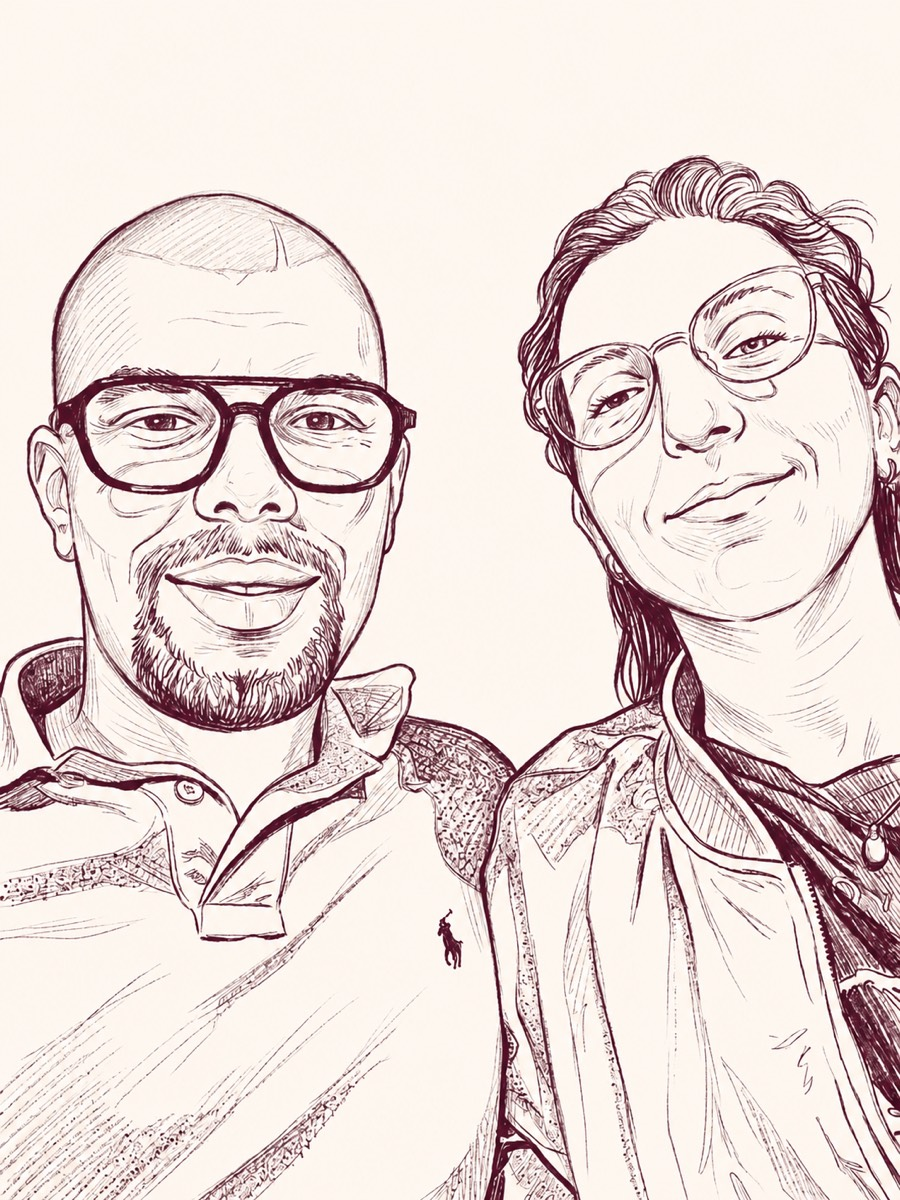
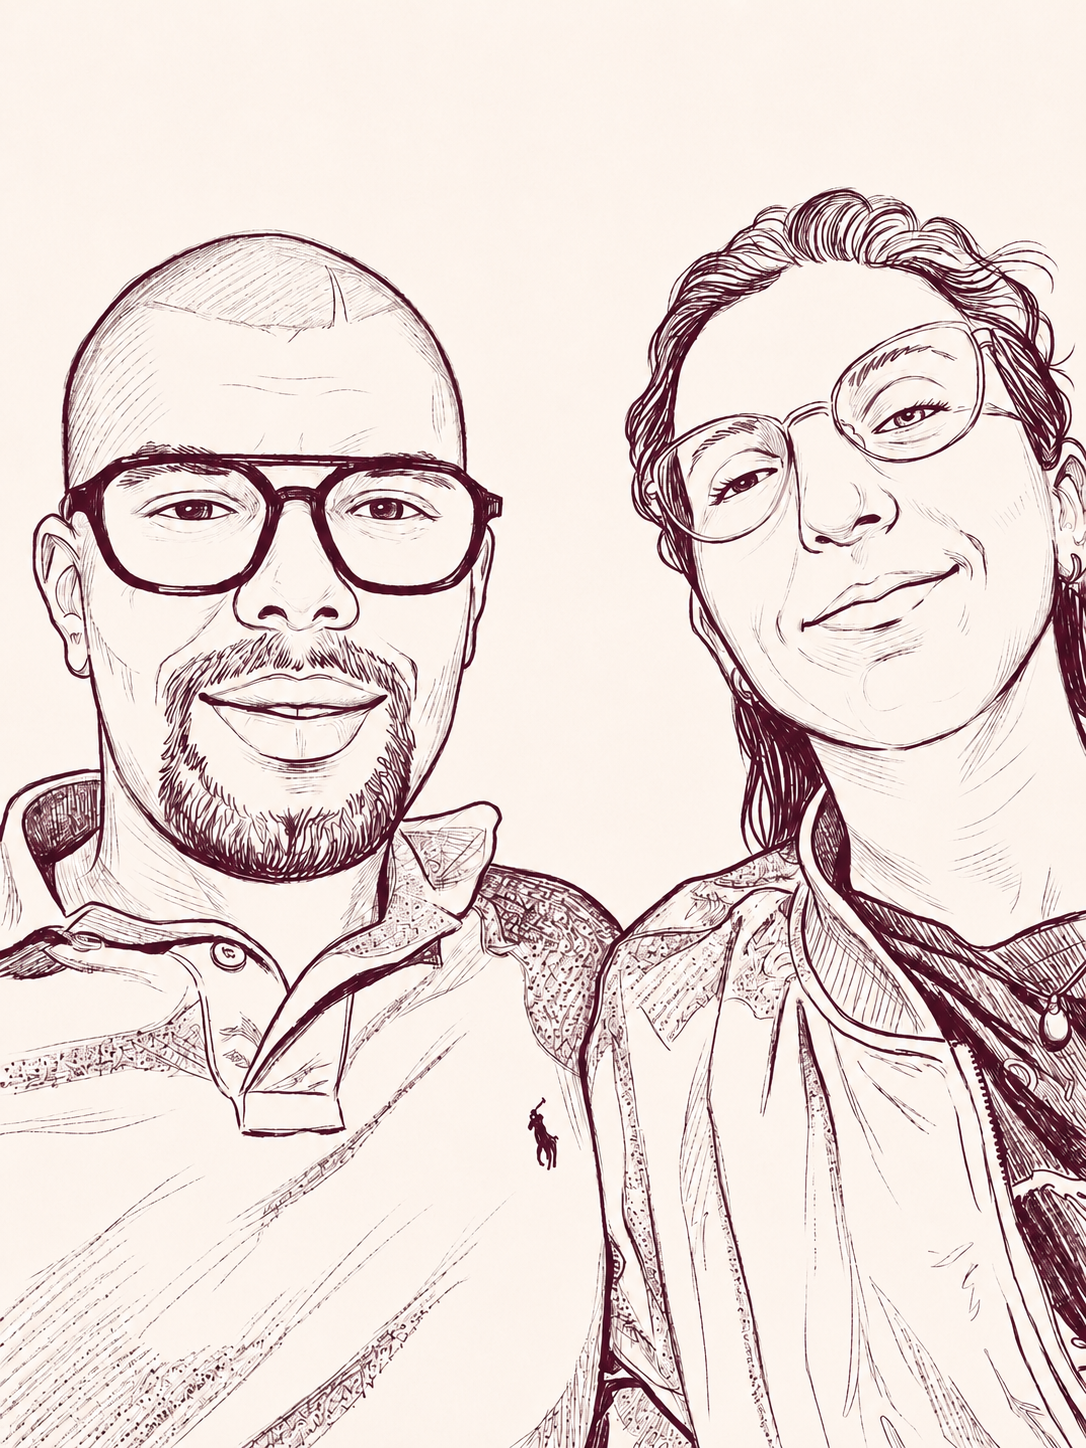
UX/UI : transitions de page, alignement titres, validation RSVP, header mobile
- Transitions de page natives (@user cross-document) avec repli sur le fondu manuel ; navigation fluide sans délai ni écran blanc
- Alignement des titres de hero (Programme/Lieu/Infos) à la même position : copy top-aligné, kicker et paddings harmonisés
- Validation RSVP : messages d'erreur uniquement à la soumission (plus au blur), tournures complètes (« Merci de renseigner votre prénom »)
- FAQ : groupes principaux en accordéon exclusif (name partagé)
- Header mobile : logo centré (flex + hamburger en absolu)
- Nouvelle illustration du couple

diff --git a/style.css b/style.css
@@ -152,7 +152,25 @@
    ========================= */
 html.page-loading{
   opacity:0;
-  /* bloque le rendu jusqu'à ce que JS déclenche le fade-in */
+  /* bloque le rendu jusqu'à ce que JS déclenche le fade-in (repli sans View Transitions) */
+}
+
+/* View Transitions natives (cross-document) : fondu enchaîné fluide entre les pages,
+   géré par le navigateur (sans délai ni écran blanc). Repli sur les navigateurs non
+   compatibles : navigation instantanée + fondu JS hérité (voir page-loading). */
+@view-transition{ navigation: auto; }
+
+::view-transition-old(root),
+::view-transition-new(root){
+  animation-duration:.45s;
+  animation-timing-function:cubic-bezier(.4, 0, .2, 1);
+}
+
+@media (prefers-reduced-motion: reduce){
+  ::view-transition-old(root),
+  ::view-transition-new(root){
+    animation:none;
+  }
 }
 
 /* =========================
@@ -1267,6 +1285,8 @@ main{
 }
 
 .programme-intro .pill{
+  display:block;
+  margin:0 0 12px;
   padding:0;
   border:0;
   border-radius:0;
@@ -2335,7 +2355,7 @@ main{
   display:grid;
   grid-template-columns:1fr 360px;
   gap:52px;
-  align-items:center;
+  align-items:start;
 }
 .infos-hero-h2{
   margin-bottom:20px;
@@ -2761,7 +2781,7 @@ main{
   display:grid;
   grid-template-columns:1fr 360px;
   gap:32px;
-  align-items:center;
+  align-items:start;
 }
 
 .lieu-hero-summary{
@@ -2792,7 +2812,7 @@ main{
 .lieu-hero-copy{
   display:flex;
   flex-direction:column;
-  padding:12px 0;
+  padding:0;
 }
 
 .lieu-hero-copy h2{
@@ -3820,18 +3840,24 @@ button{
   }
 
   .header-inner{
-    grid-template-columns:1fr auto;
-    justify-items:start;
+    display:flex;
+    justify-content:center;
     align-items:center;
+    position:relative;
     height:auto;
     padding:14px 20px;
-    row-gap:0;
   }
 
   .site-header .nav{ display:none; }
   .header-rsvp{ display:none; }
-  .nav-toggle{ display:flex; }
-  .site-header .brand{ font-size:1.4rem; }
+  .nav-toggle{
+    display:flex;
+    position:absolute;
+    right:20px;
+    top:50%;
+    transform:translateY(-50%);
+  }
+  .site-header .brand{ font-size:1.4rem; margin-right:0; }
   .footer-grid{
     grid-template-columns:repeat(2, minmax(0, 1fr));
     gap:24px 22px;

diff --git a/script.js b/script.js
@@ -659,7 +659,7 @@ function initRSVP() {
 
     if (field.validity.valueMissing) {
       if (field.name === 'email') return 'Merci de renseigner votre adresse e-mail.';
-      return `Merci de renseigner ${labelText.toLowerCase()}.`;
+      return `Merci de renseigner votre ${labelText.toLowerCase()}.`;
     }
 
     if (field.validity.typeMismatch && field.name === 'email') {
@@ -667,7 +667,7 @@ function initRSVP() {
     }
 
     if (field.validity.badInput) {
-      return `Merci de vérifier ${labelText.toLowerCase()}.`;
+      return `Merci de vérifier votre ${labelText.toLowerCase()}.`;
     }
 
     return '';
@@ -844,18 +844,15 @@ function initRSVP() {
     field.addEventListener('blur', () => {
       if (!field.name || field.type === 'hidden' || field.type === 'radio' || field.type === 'checkbox') return;
       field.setCustomValidity('');
-      if (!field.value.trim() && field.required) {
-        field.classList.add('is-error');
-        field.classList.remove('is-valid');
-        showInlineFieldMessage(field, getFieldValidationMessage(field));
-      } else if (!field.validity.valid) {
-        field.classList.add('is-error');
-        field.classList.remove('is-valid');
-        showInlineFieldMessage(field, getFieldValidationMessage(field));
-      } else if (field.value.trim()) {
+      // On ne signale aucune erreur au blur : les messages n'apparaissent qu'à la
+      // soumission d'un formulaire incomplet. On marque seulement en "valide" (vert)
+      // les champs correctement remplis.
+      if (field.value.trim() && field.validity.valid) {
         field.classList.add('is-valid');
         field.classList.remove('is-error');
         clearInlineFieldMessage(field);
+      } else {
+        field.classList.remove('is-valid');
       }
     });
 
@@ -974,6 +971,9 @@ function initMobileNav() {
 
 function initPageTransitions() {
   if (prefersReducedMotion) return;
+  // Navigateurs gérant les View Transitions cross-document (@view-transition) :
+  // on laisse la transition native opérer, sans fondu manuel ni délai de navigation.
+  if ('CSSViewTransitionRule' in window) return;
 
   document.addEventListener('click', e => {
     if (e.button !== 0 || e.ctrlKey || e.metaKey || e.shiftKey || e.altKey) return;

diff --git a/infos.html b/infos.html
@@ -15,7 +15,7 @@
 <link rel="preconnect" href="https://fonts.gstatic.com" crossorigin>
 <link href="https://fonts.googleapis.com/css2?family=Cormorant+Garamond:wght@400;500&family=Mulish:wght@300;400;600&family=Great+Vibes&display=swap" rel="stylesheet">
 <link rel="stylesheet" href="./style.css?v=20260510f">
-  <script>document.documentElement.classList.add("page-loading")</script>
+  <script>if(!('CSSViewTransitionRule' in window))document.documentElement.classList.add("page-loading")</script>
 </head><body class="page" data-page="infos">
 <a class="skip-link" href="#main-content">Aller au contenu</a>
 <div data-header-component data-header-source="./partials/header.html">
@@ -222,7 +222,7 @@
     <div class="faq-groups">
 
       <!-- 1 · Votre arrivée -->
-      <details class="faq-group" id="faq-arrivee">
+      <details class="faq-group" name="faq-group" id="faq-arrivee">
         <summary class="faq-group-title">Votre arrivée</summary>
 
         <details class="home-accordion-item faq-item" name="infos-faq">
@@ -251,7 +251,7 @@
       </details>
 
       <!-- 2 · Dormir sur place -->
-      <details class="faq-group" id="faq-logements">
+      <details class="faq-group" name="faq-group" id="faq-logements">
         <summary class="faq-group-title">Dormir sur place</summary>
 
         <details class="home-accordion-item faq-item" name="infos-faq">
@@ -280,7 +280,7 @@
       </details>
 
       <!-- 3 · Profiter du domaine -->
-      <details class="faq-group" id="faq-domaine">
+      <details class="faq-group" name="faq-group" id="faq-domaine">
         <summary class="faq-group-title">Profiter du domaine</summary>
 
         <details class="home-accordion-item faq-item" name="infos-faq">
@@ -310,7 +310,7 @@
       </details>
 
       <!-- 4 · Règles et questions pratiques -->
-      <details class="faq-group" id="faq-pratique">
+      <details class="faq-group" name="faq-group" id="faq-pratique">
         <summary class="faq-group-title">Règles et questions pratiques</summary>
 
         <details class="home-accordion-item faq-item" name="infos-faq">

diff --git a/index.html b/index.html
@@ -20,7 +20,7 @@
   <link rel="prefetch" href="./partials/footer.html">
   <link href="https://fonts.googleapis.com/css2?family=Cormorant+Garamond:wght@400;500&family=Mulish:wght@300;400;600&family=Great+Vibes&display=swap" rel="stylesheet">
   <link rel="stylesheet" href="./style.css?v=20260510f">
-  <script>document.documentElement.classList.add("page-loading")</script>
+  <script>if(!('CSSViewTransitionRule' in window))document.documentElement.classList.add("page-loading")</script>
 </head>
 
 <body data-page="home">

diff --git a/lieu.html b/lieu.html
@@ -15,7 +15,7 @@
 <link rel="preconnect" href="https://fonts.gstatic.com" crossorigin>
 <link href="https://fonts.googleapis.com/css2?family=Cormorant+Garamond:wght@400;500&family=Mulish:wght@300;400;600&family=Great+Vibes&display=swap" rel="stylesheet">
 <link rel="stylesheet" href="./style.css?v=20260510f">
-  <script>document.documentElement.classList.add("page-loading")</script>
+  <script>if(!('CSSViewTransitionRule' in window))document.documentElement.classList.add("page-loading")</script>
 </head><body class="page" data-page="lieu">
 <a class="skip-link" href="#main-content">Aller au contenu</a>
 <div data-header-component data-header-source="./partials/header.html">

diff --git a/programme.html b/programme.html
@@ -15,7 +15,7 @@
 <link rel="preconnect" href="https://fonts.gstatic.com" crossorigin>
 <link href="https://fonts.googleapis.com/css2?family=Cormorant+Garamond:wght@400;500&family=Mulish:wght@300;400;600&family=Great+Vibes&display=swap" rel="stylesheet">
 <link rel="stylesheet" href="./style.css?v=20260510f">
-  <script>document.documentElement.classList.add("page-loading")</script>
+  <script>if(!('CSSViewTransitionRule' in window))document.documentElement.classList.add("page-loading")</script>
 </head><body class="page" data-page="programme">
 <a class="skip-link" href="#main-content">Aller au contenu</a>
 <div data-header-component data-header-source="./partials/header.html">

diff --git a/rsvp.html b/rsvp.html
@@ -18,7 +18,7 @@
   <link rel="preconnect" href="https://fonts.gstatic.com" crossorigin>
   <link href="https://fonts.googleapis.com/css2?family=Cormorant+Garamond:wght@400;500&family=Mulish:wght@300;400;600&family=Great+Vibes&display=swap" rel="stylesheet">
   <link rel="stylesheet" href="./style.css?v=20260510f">
-  <script>document.documentElement.classList.add("page-loading")</script>
+  <script>if(!('CSSViewTransitionRule' in window))document.documentElement.classList.add("page-loading")</script>
 </head>
 
 <body class="page" data-page="rsvp">